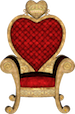
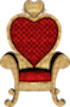
changed Gui

diff --git a/js/play.js b/js/play.js
@@ -104,11 +104,11 @@ var playState = {
         map.addTilesetImage('road');
         grass = map.createLayer('bg');
         dirtPath = map.createLayer('path');
-        game.add.sprite(0,600, 'bar');
+        game.add.sprite(0,580, 'bar');
         
         
         game.add.sprite(800, 400, 'progress1');
-        game.add.sprite(700,600,'throne');  
+        game.add.sprite(720,400,'throne');  
         // music
         
         BGM = game.add.audio("BGM");
@@ -134,9 +134,9 @@ var playState = {
             let tower = towers[tIndex];
 
             // Create the sprite for the towers
-            var towerSprite = game.add.sprite(40 + tIndex * 120, 500, tower.name);
-            towerSprite.defaultX = 40 + tIndex * 100
-            towerSprite.defaultY = 480
+            var towerSprite = game.add.sprite(40 + tIndex * 120, 590, tower.name);
+            towerSprite.defaultX = 40 + tIndex * 120
+            towerSprite.defaultY = 590
 
             // Add tower cost to the sprite object
             towerSprite.cost = tower.cost
@@ -151,8 +151,8 @@ var playState = {
             towerStyle = {
                 font: "15px Arial"
             }
-            game.add.text(towerSprite.x, towerSprite.y + 75, tower.name.toProperCase(), towerStyle)
-            game.add.text(towerSprite.x, towerSprite.y + 100, "Cost: " + tower.cost.toString(), towerStyle)
+            game.add.text(towerSprite.x, towerSprite.y + 65, tower.name.toProperCase(), towerStyle)
+            game.add.text(towerSprite.x, towerSprite.y + 80, "Cost: " + tower.cost.toString(), towerStyle)
 
             // Add sprite to group
             towerSprites.add(towerSprite);
@@ -163,7 +163,7 @@ var playState = {
 
 
         // Add game information
-        gameText = game.add.text(805, 510,
+        gameText = game.add.text(10, 500,
             'Wave: ' + currentWave.toString() + '\n' +
             'Coins: ' + coins.toString() + '\n' +
             'Lives: ' + lives.toString(), {

diff --git a/js/enemy.js b/js/enemy.js
@@ -82,8 +82,8 @@ class Enemy {
             this.sprite.body.velocity.x = 0;
             this.sprite.body.velocity.y = 100;
             this.sprite.animations.play('right');
-        // Checks to see if in bottom path
-        } else if (this.sprite.x < 800) {
+        // Checks to see if in bottom paths
+        } else if (this.sprite.x < 720) {
             this.sprite.body.velocity.x = 100;
             this.sprite.body.velocity.y = 0;
             this.sprite.animations.play('left');
